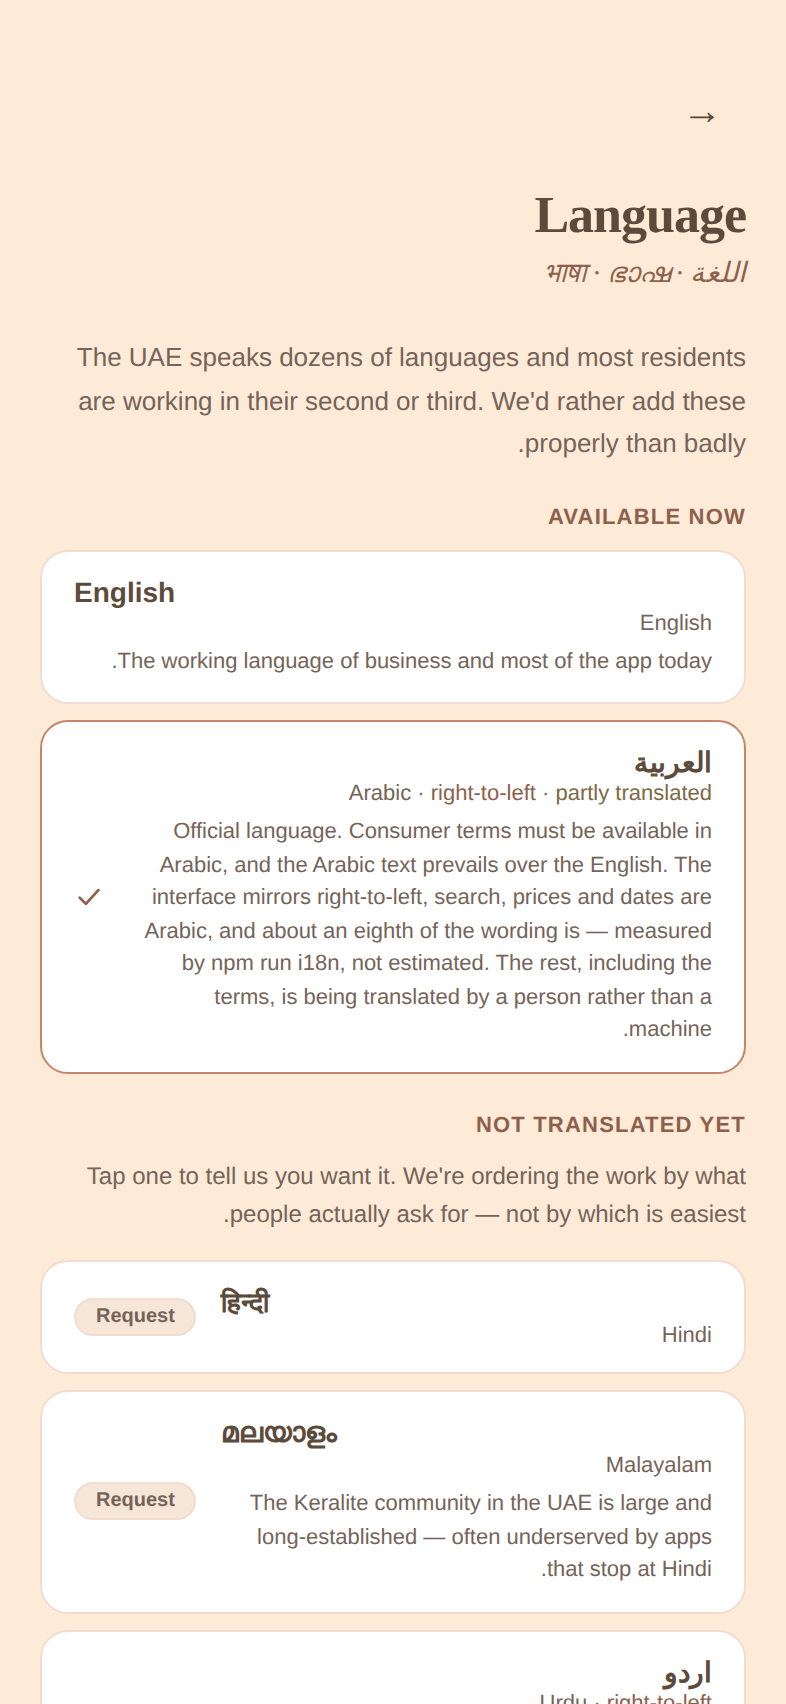
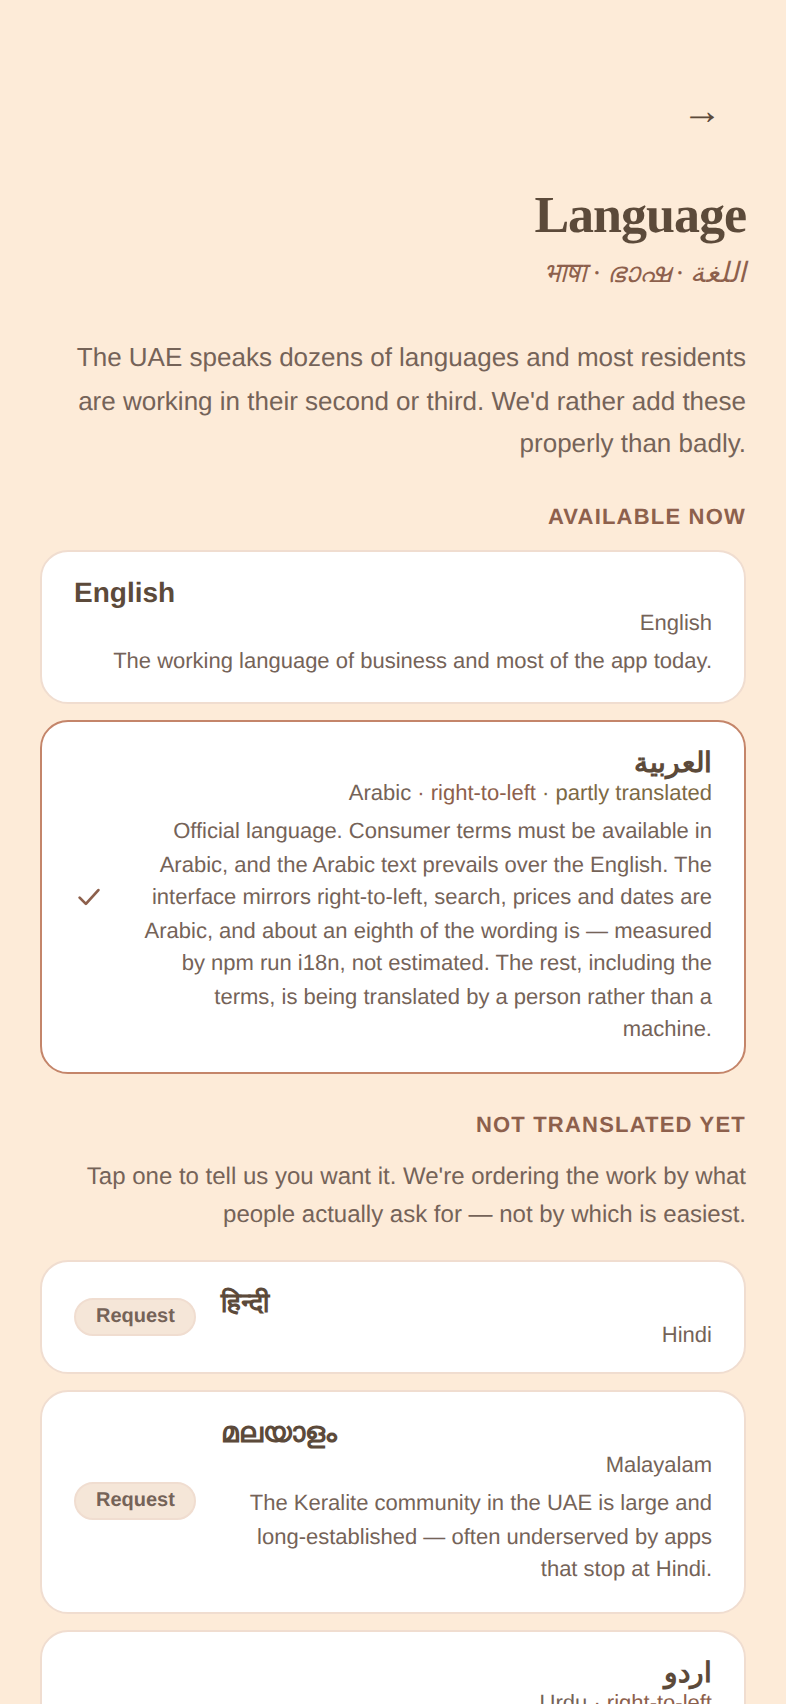
Arabic mode: one title per card, and English sentences that read right
- Cards and the New In strip show one title, in her language (the Arabic
  title in Arabic mode, the English one otherwise), instead of both on every
  card. The Arabic title is still searched and shown in full on the piece.
- In right-to-left mode, text elements take their paragraph direction from
  their own content (unicode-bidi: plaintext). English sentences, still most
  of the wording in Arabic mode, no longer put their full stop at the wrong
  end (".properly than badly"). Alignment follows the screen
  (-webkit-match-parent, the form Chromium resolves), so headings stay
  right-aligned. Layout direction is unchanged.
- research gains a check for the rule.

Claude-Session: https://claude.ai/code/session_01UPPZeDd8ShCtBFb3VinzWU

diff --git a/app/src/Marketplace.jsx b/app/src/Marketplace.jsx
@@ -1110,10 +1110,12 @@ function ItemTile({item,onSave,onClick,loading}) {
         {item.brand && <div style={{fontSize:10,fontWeight:700,letterSpacing:1,color:C.inkLt,
           textTransform:"uppercase",marginBottom:2,
           whiteSpace:"nowrap",overflow:"hidden",textOverflow:"ellipsis"}}>{item.brand}</div>}
-        <div style={{fontSize:13,fontWeight:600,color:C.ink,lineHeight:1.3,
-          whiteSpace:"nowrap",overflow:"hidden",textOverflow:"ellipsis"}}>{item.title}</div>
-        <div style={{fontSize:10,color:C.inkLt,marginBottom:4,
-          whiteSpace:"nowrap",overflow:"hidden",textOverflow:"ellipsis"}}>{item.titleAr}</div>
+        {/* One title, in her language. Both on every card doubled the text in
+            the grid and halved the room for the garment; the Arabic title is
+            still searched, and shown in full on the piece itself. */}
+        <div dir="auto" style={{fontSize:13,fontWeight:600,color:C.ink,lineHeight:1.3,marginBottom:4,
+          whiteSpace:"nowrap",overflow:"hidden",textOverflow:"ellipsis"}}>
+          {getLang()==="ar" && item.titleAr ? item.titleAr : item.title}</div>
         <PriceTag item={item} size={14}/>
         {/* Size and condition read together, as one line, under the price —
             the two things she filters on in her head before she taps. */}
@@ -1188,8 +1190,8 @@ function NewInStrip({items,onSave,setModal,onSeeAll}) {
             <div style={{padding:"8px 10px 10px"}}>
               {item.brand && <div style={{fontSize:10,fontWeight:700,letterSpacing:1,color:C.inkLt,
                 textTransform:"uppercase",whiteSpace:"nowrap",overflow:"hidden",textOverflow:"ellipsis"}}>{item.brand}</div>}
-              <div style={{fontSize:12,fontWeight:600,color:C.ink,lineHeight:1.3,
-                whiteSpace:"nowrap",overflow:"hidden",textOverflow:"ellipsis"}}>{item.title}</div>
+              <div dir="auto" style={{fontSize:12,fontWeight:600,color:C.ink,lineHeight:1.3,
+                whiteSpace:"nowrap",overflow:"hidden",textOverflow:"ellipsis"}}>{getLang()==="ar" && item.titleAr ? item.titleAr : item.title}</div>
               <div style={{marginTop:3}}><PriceTag item={item} size={13}/></div>
               <div style={{fontSize:10,color:C.inkLt,marginTop:1,whiteSpace:"nowrap",overflow:"hidden",textOverflow:"ellipsis"}}>
                 {[item.size && item.size!=="OS" ? `Size ${item.size}` : null, item.condition].filter(Boolean).join(" · ")}

diff --git a/app/src/index.css b/app/src/index.css
@@ -250,3 +250,25 @@ select:focus-visible {
   position: absolute; width: 1px; height: 1px; padding: 0; margin: -1px;
   overflow: hidden; clip: rect(0 0 0 0); white-space: nowrap; border: 0;
 }
+
+/* ── mixed-language text in right-to-left mode ───────────────────────────
+   In Arabic most of the wording is still English, and an English sentence
+   laid out in a right-to-left paragraph puts its full stop at the wrong end
+   (".properly than badly") and reorders anything in brackets. `plaintext`
+   lets each paragraph take its direction from its own first letter: Arabic
+   reads right to left, an English sentence reads as English. Layout direction
+   (row order, which side the back arrow is on) is untouched — that comes from
+   `direction`, which stays rtl. */
+[dir="rtl"] p,
+[dir="rtl"] li,
+[dir="rtl"] label,
+[dir="rtl"] span,
+[dir="rtl"] button,
+[dir="rtl"] h1, [dir="rtl"] h2, [dir="rtl"] h3,
+[dir="rtl"] div:not(:has(> div, > section, > button, > ul, > p)) {
+  unicode-bidi: plaintext;
+  /* …but keep the screen's alignment: without this an English line would
+     also swing to the left edge under a right-aligned Arabic one. */
+  text-align: match-parent;
+  text-align: -webkit-match-parent;   /* Chromium resolves only the prefixed form */
+}
